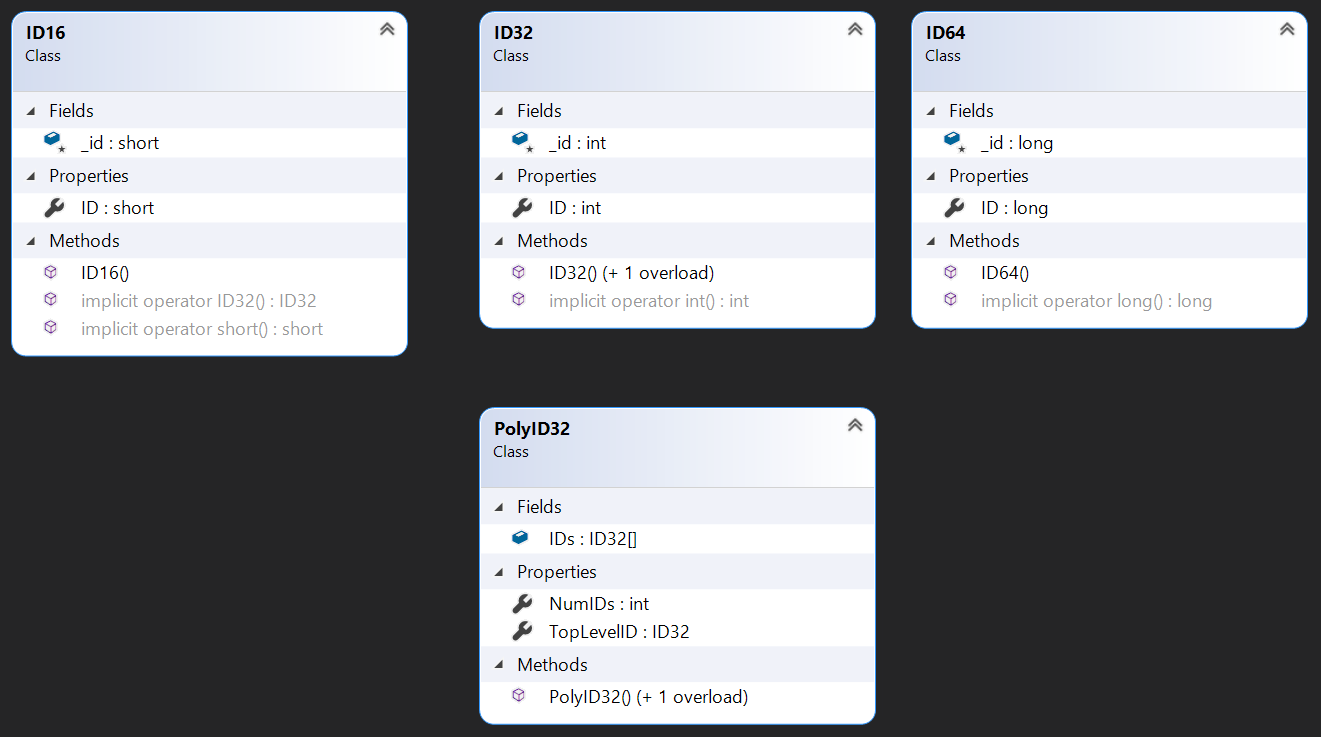
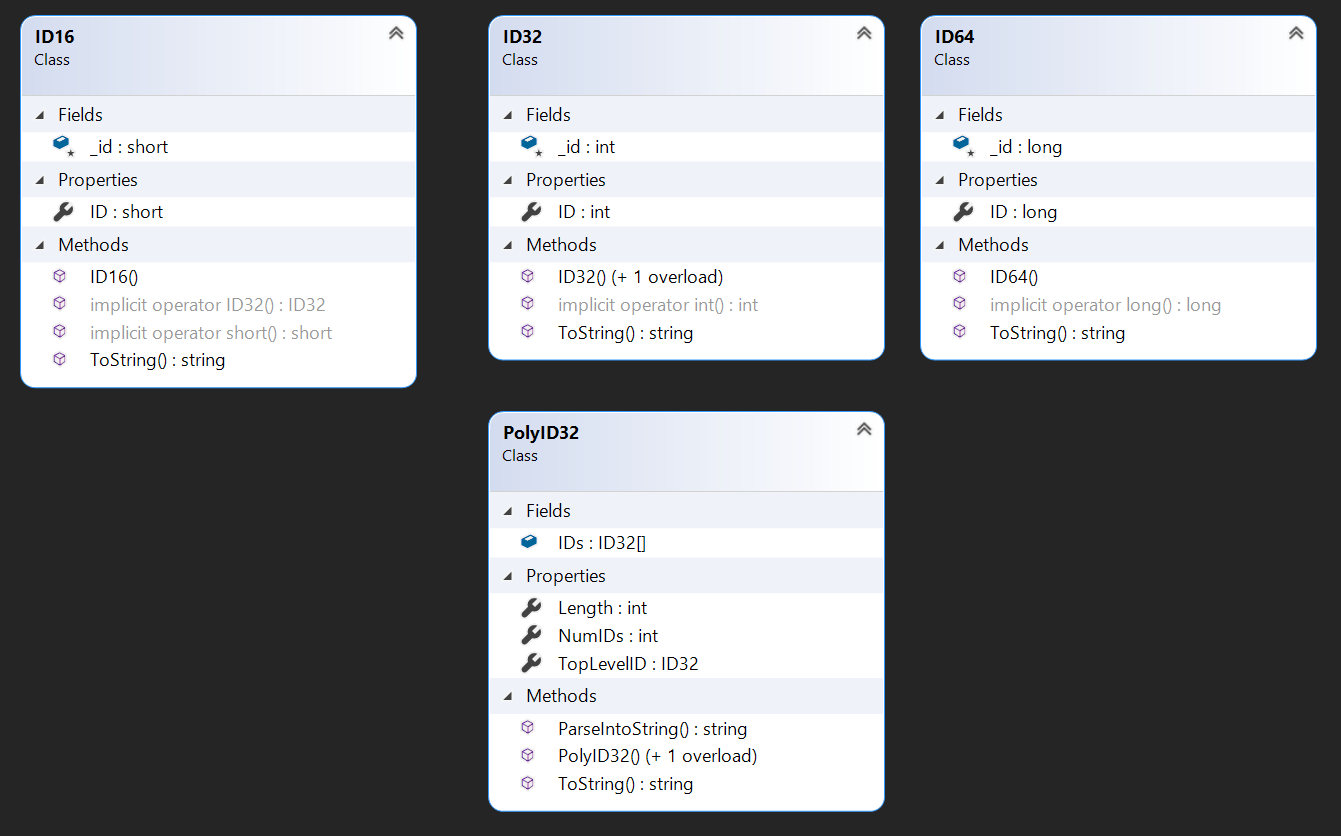
IDs to string override polyID length propety polyID to string functions

Changed region(s): [[0.3414, 0.0, 0.9932, 0.9986], [0.0, 0.0, 0.3104, 0.4993], [0.2793, 0.0936, 0.3104, 0.1248]]

diff --git a/Primitives/ID/PolyID32.cs b/Primitives/ID/PolyID32.cs
@@ -1,11 +1,15 @@
 
+using System.Text;
+
 namespace Uaine.Objects.Primitives.ID
 {
     public class PolyID32
     {
         public ID32[] IDs;
         public int NumIDs { get => IDs.Length; }
+        public int Length { get => IDs.Length; }
         public ID32 TopLevelID { get => IDs[0]; }
+        public ID32 BottomLevelID { get => IDs[Length - 1]; }
         public PolyID32(ID32[] IDArray)
         {
             IDs = IDArray;
@@ -17,6 +21,22 @@ namespace Uaine.Objects.Primitives.ID
             {
                 IDs[i] = IDArray[i];
             }
+        }
+
+        //overrides
+        public override string ToString()
+        {
+            return ParseIntoString(".");
+        }
+        public string ParseIntoString(string delimitter)
+        {
+            StringBuilder sb = new StringBuilder();
+            for (int i = 0; i < Length - 1; i++)    //all but last
+            {
+                sb.Append(IDs[i].ToString() + delimitter);
+            }
+            sb.Append(IDs[Length - 1].ToString());
+            return sb.ToString();
         }
     }
 }

diff --git a/Primitives/ID/ID16.cs b/Primitives/ID/ID16.cs
@@ -13,5 +13,11 @@ namespace Uaine.Objects.Primitives.ID
         //operators
         public static implicit operator ID32(ID16 obj) => new ID32(obj);
         public static implicit operator short(ID16 obj) => obj.ID;
+
+        //overrides
+        public override string ToString()
+        {
+            return _id.ToString();
+        }
     }
 }

diff --git a/Primitives/ID/ID64.cs b/Primitives/ID/ID64.cs
@@ -12,5 +12,11 @@ namespace Uaine.Objects.Primitives.ID
 
         //operators
         public static implicit operator long(ID64 obj) => obj.ID;
+
+        //overrides
+        public override string ToString()
+        {
+            return _id.ToString();
+        }
     }
 }

diff --git a/Primitives/ID/ID32.cs b/Primitives/ID/ID32.cs
@@ -16,5 +16,11 @@ namespace Uaine.Objects.Primitives.ID
 
         //operators
         public static implicit operator int(ID32 obj) => obj.ID;
+
+        //overrides
+        public override string ToString()
+        {
+            return _id.ToString();
+        }
     }
 }
